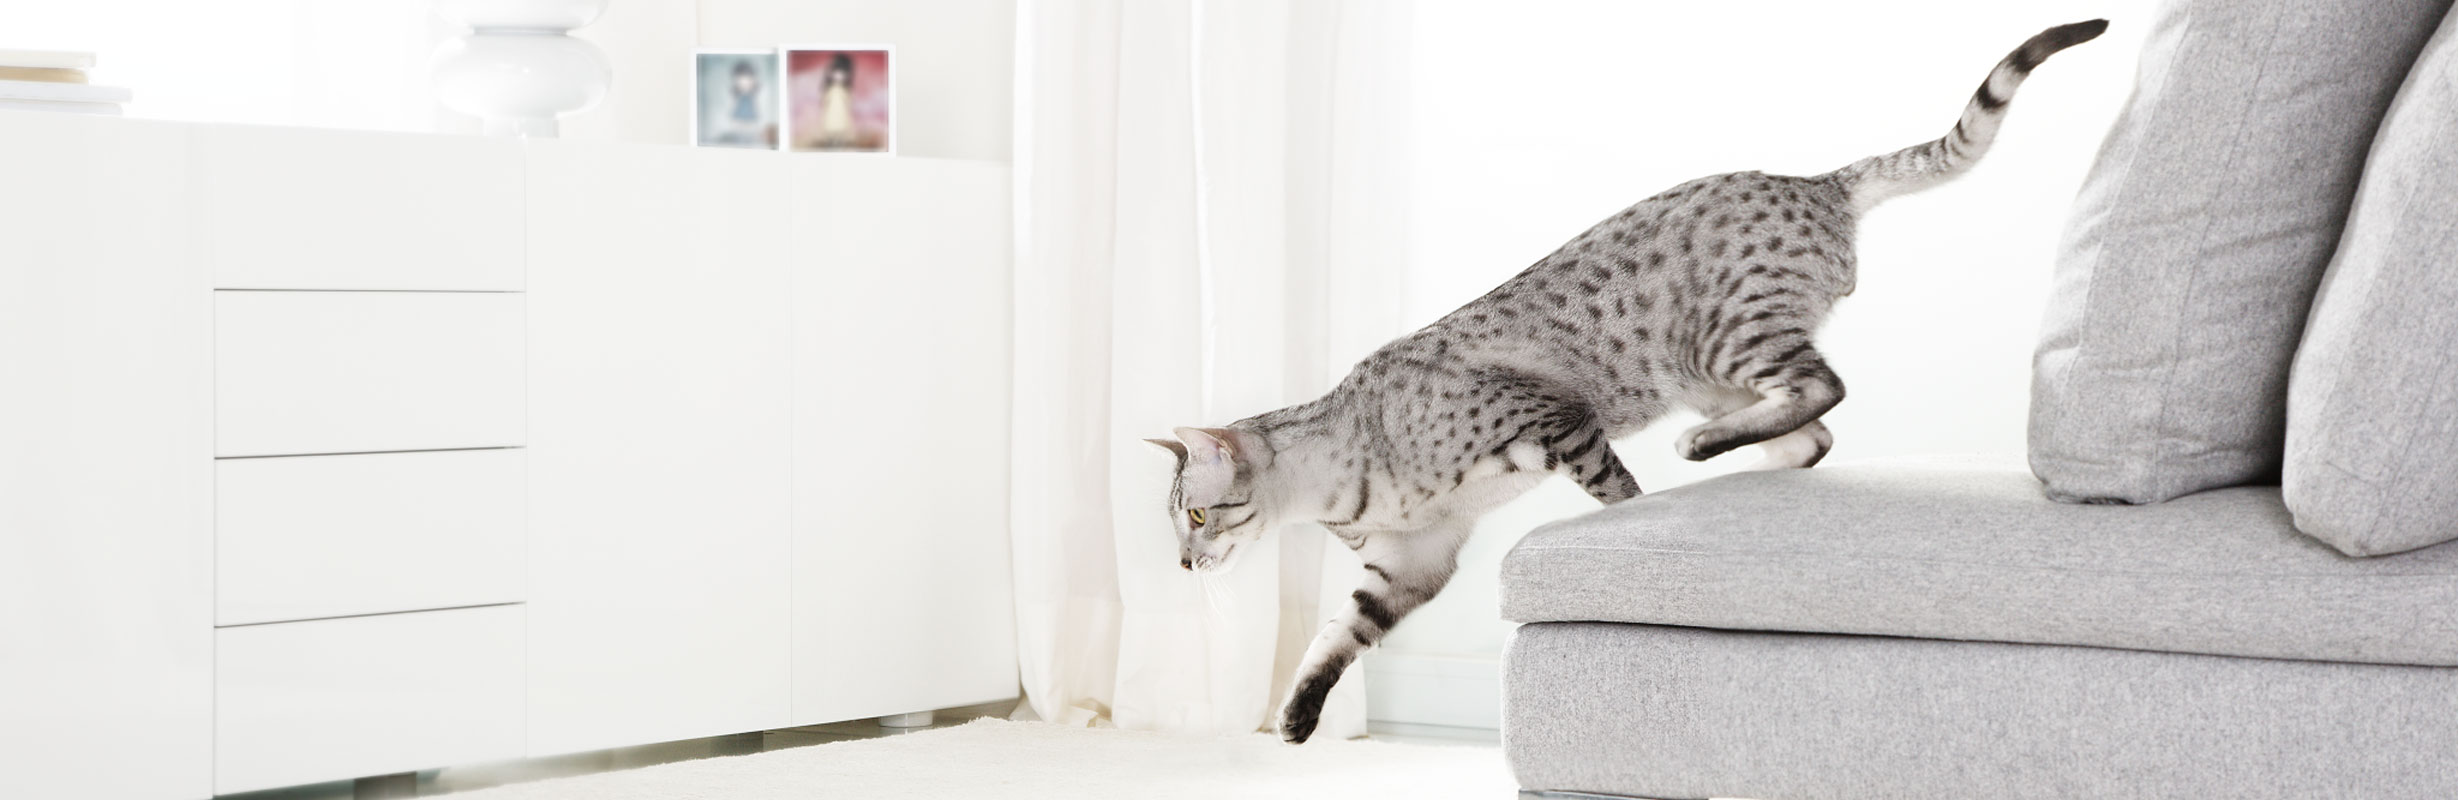
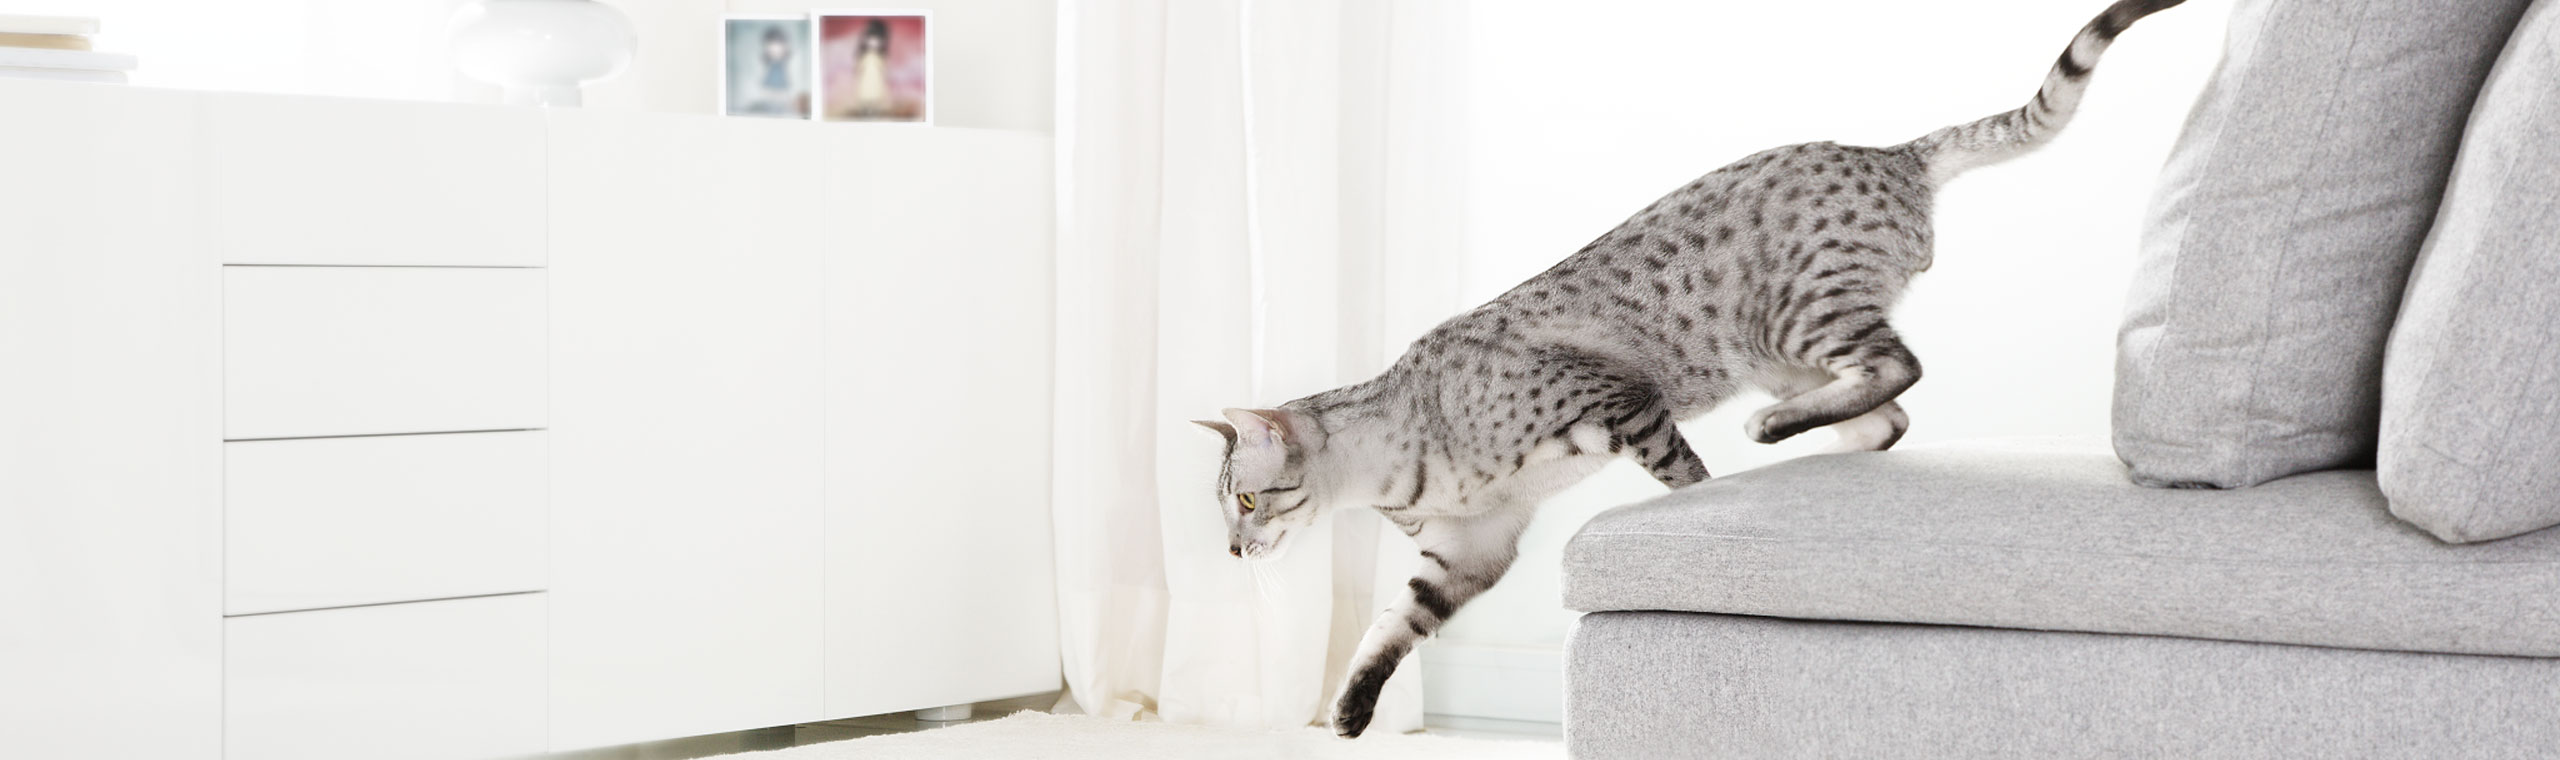
slider part 2

diff --git a/css/main.css b/css/main.css
@@ -318,10 +318,10 @@ article h3 a:hover						{color:#1d8995 !important;}
 
 
 /* SLIDER */
-#main-slider						{position:relative; margin:0 auto; z-index:1; max-width:2458px;} 
+#main-slider						{position:relative; margin:0 auto; z-index:1; max-width:2560px;} 
 #main-slider	.button			{font-size:1.4em; font-weight:400; padding:15px 30px; text-shadow: 0px 0px;}
 .flexslider							{position:relative;}
-.flex-caption						{position:absolute; top:0;padding-top:1.6%; padding-left:1%;  z-index:2; text-shadow: 1px 1px white;}
+.flex-caption						{position:absolute; top:0;padding-top:1.5%; padding-left:1%;  z-index:2; text-shadow: 1px 1px white;}
 
 
 

diff --git a/includes/slider.php b/includes/slider.php
@@ -13,7 +13,6 @@
                         <div class="flex-caption">
                         	<h1>Dołącz do klubu Kociarza!</h1>
                             <h2>Klub Kociarze - nowe miejsce na mapie naszego serwisu.<br>Dołącz do nas, na pierwszych 400 klubowiczów<br>czeka upominek.</h2>
-                        	<br>
                             <a class="button button-teal" href="#" title="Dołącz" >Dołącz &nbsp; &nbsp; &#x279d;</a>
                     		<br class="clear">
                         </div>
@@ -25,7 +24,6 @@
                     	<div class="flex-caption">
                         	<h1>Dołącz do klubu Kociarza!</h1>
                             <h2>Klub Kociarze - nowe miejsce na mapie naszego serwisu.<br>Dołącz do nas, na pierwszych 400 klubowiczów<br>czeka upominek.</h2>
-                        	<br>
                             <a class="button button-teal" href="#" title="Dołącz">Dołącz &nbsp; &nbsp; &#x279d;</a>
                     		<br class="clear">
                         </div>
